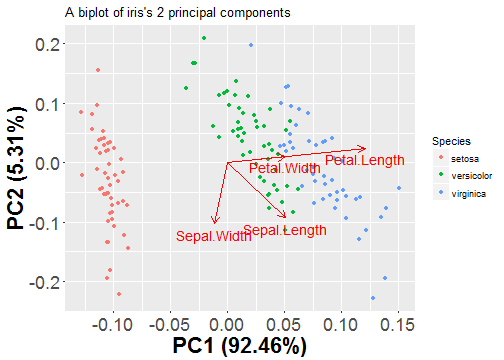
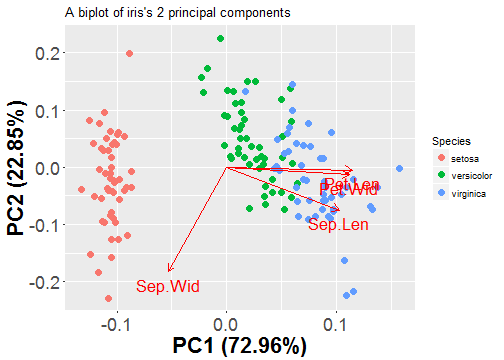
update presentation

diff --git a/docs/index.html b/docs/index.html
@@ -843,7 +843,6 @@ From data wrangling to exploration and modelling
 <li>Logistic regression</li>
 <li>Clustering and classification<br/></li>
 <li>Dimensionality reduction techniques<br/></li>
-<li>Multivariate statistical modelling<br/></li>
 </ul>
 
 </div>
@@ -1105,7 +1104,7 @@ F-statistic: 9.475 on 1 and 28 DF,  p-value: 0.004626
 <section data-transition="default" data-transition-speed="default">
 <h3>Assumptions of linear regression models</h3>
 <div class="slideContent" >
-<p>Analyzing the <em>residuals</em> of the model provides a method to exlopore the validity of the model assumptions. A lot of interesting assumptions are included in the expression </p>
+<p>Analyzing the <em>residuals</em> of the model provides a method to explore the validity of the model assumptions. A lot of interesting assumptions are included in the expression </p>
 
 <p>\[ \boldsymbol{\epsilon} \sim N(0, \sigma^2) \]</p>
 
@@ -1877,8 +1876,8 @@ Proportion of trace:
 
 <ul>
 <li>Principal Component Analysis (PCA) is a statistical procedure which does the same thing</li>
-<li>LDA can also be considered as a dimensionality reduction technique. The visualisation techniques related to PCA and LDA are similar (<strong>biplot</strong>).</li>
-<li>Unlike LDA, <strong>PCA has no criteria or target variable</strong> for the reduction. In machine learning vocabulary, PCA may therefore be called an <strong>unsupervised</strong> method.</li>
+<li>LDA can also be considered as a dimensionality reduction technique. </li>
+<li>PCA best applies to continuous variables. If the data consists of categorical variables, Correspondece Analysis (CA) can be used.</li>
 </ul>
 
 </div>
@@ -1911,9 +1910,9 @@ Proportion of trace:
 <div class="column column2 slideContent" >
 
 
[2 lines of base64/hex data omitted]
 
-<p><small><em>The dimensionality of iris reduced to two principal components (PC). The first PC captures more than 90% of the total variance in the 4 original variables.</em></small></p>
+<p><small><em>The dimensionality of iris reduced to two principal components (PC). The first PC captures more than 70% of the total variance in the 4 original variables.</em></small></p>
 
 </div>
 
@@ -1921,11 +1920,11 @@ Proportion of trace:
 <section data-transition="default" data-transition-speed="default">
 <h3>About PCA</h3>
 <div class="slideContent" >
-<p>Because of it&#39;s unsuperwised nature, PCA operates on numerical data rather blindly.</p>
+<p>Unlike LDA, PCA has no criteria or target variable. PCA may therefore be called an <strong>unsupervised</strong> method.  </p>
 
 <ul>
-<li>PCA is sensitive to the relative scaling of the original features. PCA assumes that features with larger variance are more important than features with smaller variance.</li>
-<li>If higher measurements do not correspond to higher importance/effect in your data, the features should be <strong>standardized</strong> before performing PCA</li>
+<li>PCA is sensitive to the relative scaling of the original features and assumes that features with larger variance are more important than features with smaller variance.<br/></li>
+<li><strong>Standardization</strong> of the features before PCA is often a good idea.</li>
 <li>PCA is powerful at encapsulating correlations between the original features into a smaller number of uncorrelated dimensions</li>
 </ul>
 
@@ -1942,6 +1941,72 @@ Proportion of trace:
 <li>It is also possible to model the dimensionality using underlying latent variables with for example Factor Analysis</li>
 <li>These advanced methods of multivariate analysis are not part of this course</li>
 </ul>
+
+</div>
+
+</section>
+<section data-state="prompt" data-transition="default" data-transition-speed="default">
+<h3>Biplots</h3>
+<div class="column column1 slideContent" >
[1 lines of base64/hex data omitted]
+
+
+</div>
+
+<div class="column column2 slideContent" >
+
+
+<p><br>
+Correlations of iris</p>
+
+<p><font size = 5.5></p>
+
+<pre><code>        Sep.Len Sep.Wid Pet.Len Pet.Wid
+Sep.Len    1.00   -0.12    0.87    0.82
+Sep.Wid   -0.12    1.00   -0.43   -0.37
+Pet.Len    0.87   -0.43    1.00    0.96
+Pet.Wid    0.82   -0.37    0.96    1.00
+</code></pre>
+
+<p></font>
+<br>
+The correlations (and more) can be interpret from the biplot on the left, but how?</p>
+
+</div>
+
+</section>
+<section data-transition="default" data-transition-speed="default">
+<h3>The &#x27;Bi&#x27; in Biplots</h3>
+<div class="slideContent" >
+<p>A biplot is a way of visualizing two representations of the same data. The biplot displays:</p>
+
+<p><strong>(1)</strong> The observations in a lower (2-)dimensional representation</p>
+
+<ul>
+<li>A scatter plot is drawn where the observations are placed on x and y coordinates defined by two principal components (PC&#39;s)</li>
+</ul>
+
+<p><strong>(2)</strong> The original variables and their relationships with both each other and the principal components</p>
+
+<ul>
+<li>Arrows and/or labels are drawn to visualize the connections between the original variables and the PC&#39;s. </li>
+</ul>
+
+</div>
+
+</section>
+<section data-transition="default" data-transition-speed="default">
+<h3>Properties of biplots</h3>
+<div class="slideContent" >
+<p>In a biplot, the following connections hold:</p>
+
+<ul>
+<li>The angle between arrows representing the original variables can be interpret as the correlation between the variables. Small angle = high positive correlation.</li>
+<li>The angle between a variable and a PC axis can be interpret as the correlation between the two. Small angle = high positive correlation.</li>
+<li>The length of the arrows are proportional to the standard deviations of the variables</li>
+</ul>
+
+<p>Biplots can be used to visualize the results of dimensionality reduction methods such as LDA, PCA, Correspondece Analysis (CA) and Multiple CA.</p>
 
 </div>
 

diff --git a/docs/index.md b/docs/index.md
@@ -29,7 +29,6 @@ incremental: false
 - Logistic regression
 - Clustering and classification  
 - Dimensionality reduction techniques  
-- Multivariate statistical modelling  
 
 
 
@@ -226,7 +225,7 @@ A statistical model always includes several assumptions which describe the data 
 
 Assumptions of linear regression models
 ========================================================
-Analyzing the *residuals* of the model provides a method to exlopore the validity of the model assumptions. A lot of interesting assumptions are included in the expression 
+Analyzing the *residuals* of the model provides a method to explore the validity of the model assumptions. A lot of interesting assumptions are included in the expression 
 
 $$\boldsymbol{\epsilon} \sim N(0, \sigma^2)$$
 
@@ -780,9 +779,8 @@ Tools for dimensionality reduction
 On the linear algebra level, Singular Value Decomposition (SVD) is the most important tool for reducing the number of dimensions in multivariate data.
 
 - Principal Component Analysis (PCA) is a statistical procedure which does the same thing
-- LDA can also be considered as a dimensionality reduction technique. The visualisation techniques related to PCA and LDA are similar (**biplot**).
-- Unlike LDA, **PCA has no criteria or target variable** for the reduction. In machine learning vocabulary, PCA may therefore be called an **unsupervised** method.
-
+- LDA can also be considered as a dimensionality reduction technique. 
+- PCA best applies to continuous variables. If the data consists of categorical variables, Correspondece Analysis (CA) can be used.
 
 Principal Component Analysis (PCA)
 ========================================================
@@ -804,14 +802,14 @@ This will give us uncorrelated variables which capture the maximum amount of var
 
 ![plot of chunk unnamed-chunk-5](dimensionality_reduction-figure/unnamed-chunk-5-1.png)
 
-<small>*The dimensionality of iris reduced to two principal components (PC). The first PC captures more than 90% of the total variance in the 4 original variables.*</small>
+<small>*The dimensionality of iris reduced to two principal components (PC). The first PC captures more than 70% of the total variance in the 4 original variables.*</small>
 
 About PCA
 ========================================================
-Because of it's unsuperwised nature, PCA operates on numerical data rather blindly.
+Unlike LDA, PCA has no criteria or target variable. PCA may therefore be called an **unsupervised** method.  
 
-- PCA is sensitive to the relative scaling of the original features. PCA assumes that features with larger variance are more important than features with smaller variance.
-- If higher measurements do not correspond to higher importance/effect in your data, the features should be **standardized** before performing PCA
+- PCA is sensitive to the relative scaling of the original features and assumes that features with larger variance are more important than features with smaller variance.  
+- **Standardization** of the features before PCA is often a good idea.
 - PCA is powerful at encapsulating correlations between the original features into a smaller number of uncorrelated dimensions
 
 About PCA (2)
@@ -822,6 +820,50 @@ PCA is a mathematical tool, not a statistical model, which is why linear algebra
 - It is also possible to model the dimensionality using underlying latent variables with for example Factor Analysis
 - These advanced methods of multivariate analysis are not part of this course
 
+Biplots
+========================================================
+type: prompt
+
+![plot of chunk unnamed-chunk-6](dimensionality_reduction-figure/unnamed-chunk-6-1.png)
+
+***
+<br>
+Correlations of iris
+
+<font size = 5.5>
+
+```
+        Sep.Len Sep.Wid Pet.Len Pet.Wid
+Sep.Len    1.00   -0.12    0.87    0.82
+Sep.Wid   -0.12    1.00   -0.43   -0.37
+Pet.Len    0.87   -0.43    1.00    0.96
+Pet.Wid    0.82   -0.37    0.96    1.00
+```
+</font>
+<br>
+The correlations (and more) can be interpret from the biplot on the left, but how?
+
+
+The 'Bi' in Biplots
+========================================================
+A biplot is a way of visualizing two representations of the same data. The biplot displays:
+
+**(1)** The observations in a lower (2-)dimensional representation
+- A scatter plot is drawn where the observations are placed on x and y coordinates defined by two principal components (PC's)
+
+**(2)** The original variables and their relationships with both each other and the principal components
+- Arrows and/or labels are drawn to visualize the connections between the original variables and the PC's. 
+
+Properties of biplots
+========================================================
+
+In a biplot, the following connections hold:
+
+- The angle between arrows representing the original variables can be interpret as the correlation between the variables. Small angle = high positive correlation.
+- The angle between a variable and a PC axis can be interpret as the correlation between the two. Small angle = high positive correlation.
+- The length of the arrows are proportional to the standard deviations of the variables
+
+Biplots can be used to visualize the results of dimensionality reduction methods such as LDA, PCA, Correspondece Analysis (CA) and Multiple CA.
 
 
 

diff --git a/docs/dimensionality_reduction.md b/docs/dimensionality_reduction.md
@@ -53,9 +53,8 @@ Tools for dimensionality reduction
 On the linear algebra level, Singular Value Decomposition (SVD) is the most important tool for reducing the number of dimensions in multivariate data.
 
 - Principal Component Analysis (PCA) is a statistical procedure which does the same thing
-- LDA can also be considered as a dimensionality reduction technique. The visualisation techniques related to PCA and LDA are similar (**biplot**).
-- Unlike LDA, **PCA has no criteria or target variable** for the reduction. In machine learning vocabulary, PCA may therefore be called an **unsupervised** method.
-
+- LDA can also be considered as a dimensionality reduction technique. 
+- PCA best applies to continuous variables. If the data consists of categorical variables, Correspondece Analysis (CA) can be used.
 
 Principal Component Analysis (PCA)
 ========================================================
@@ -77,14 +76,14 @@ This will give us uncorrelated variables which capture the maximum amount of var
 
 ![plot of chunk unnamed-chunk-5](dimensionality_reduction-figure/unnamed-chunk-5-1.png)
 
-<small>*The dimensionality of iris reduced to two principal components (PC). The first PC captures more than 90% of the total variance in the 4 original variables.*</small>
+<small>*The dimensionality of iris reduced to two principal components (PC). The first PC captures more than 70% of the total variance in the 4 original variables.*</small>
 
 About PCA
 ========================================================
-Because of it's unsuperwised nature, PCA operates on numerical data rather blindly.
+Unlike LDA, PCA has no criteria or target variable. PCA may therefore be called an **unsupervised** method.  
 
-- PCA is sensitive to the relative scaling of the original features. PCA assumes that features with larger variance are more important than features with smaller variance.
-- If higher measurements do not correspond to higher importance/effect in your data, the features should be **standardized** before performing PCA
+- PCA is sensitive to the relative scaling of the original features and assumes that features with larger variance are more important than features with smaller variance.  
+- **Standardization** of the features before PCA is often a good idea.
 - PCA is powerful at encapsulating correlations between the original features into a smaller number of uncorrelated dimensions
 
 About PCA (2)
@@ -95,3 +94,47 @@ PCA is a mathematical tool, not a statistical model, which is why linear algebra
 - It is also possible to model the dimensionality using underlying latent variables with for example Factor Analysis
 - These advanced methods of multivariate analysis are not part of this course
 
+Biplots
+========================================================
+type: prompt
+
+![plot of chunk unnamed-chunk-6](dimensionality_reduction-figure/unnamed-chunk-6-1.png)
+
+***
+<br>
+Correlations of iris
+
+<font size = 5.5>
+
+```
+        Sep.Len Sep.Wid Pet.Len Pet.Wid
+Sep.Len    1.00   -0.12    0.87    0.82
+Sep.Wid   -0.12    1.00   -0.43   -0.37
+Pet.Len    0.87   -0.43    1.00    0.96
+Pet.Wid    0.82   -0.37    0.96    1.00
+```
+</font>
+<br>
+The correlations (and more) can be interpret from the biplot on the left, but how?
+
+
+The 'Bi' in Biplots
+========================================================
+A biplot is a way of visualizing two representations of the same data. The biplot displays:
+
+**(1)** The observations in a lower (2-)dimensional representation
+- A scatter plot is drawn where the observations are placed on x and y coordinates defined by two principal components (PC's)
+
+**(2)** The original variables and their relationships with both each other and the principal components
+- Arrows and/or labels are drawn to visualize the connections between the original variables and the PC's. 
+
+Properties of biplots
+========================================================
+
+In a biplot, the following connections hold:
+
+- The angle between arrows representing the original variables can be interpret as the correlation between the variables. Small angle = high positive correlation.
+- The angle between a variable and a PC axis can be interpret as the correlation between the two. Small angle = high positive correlation.
+- The length of the arrows are proportional to the standard deviations of the variables
+
+Biplots can be used to visualize the results of dimensionality reduction methods such as LDA, PCA, Correspondece Analysis (CA) and Multiple CA.

diff --git a/docs/regression.md b/docs/regression.md
@@ -191,7 +191,7 @@ A statistical model always includes several assumptions which describe the data 
 
 Assumptions of linear regression models
 ========================================================
-Analyzing the *residuals* of the model provides a method to exlopore the validity of the model assumptions. A lot of interesting assumptions are included in the expression 
+Analyzing the *residuals* of the model provides a method to explore the validity of the model assumptions. A lot of interesting assumptions are included in the expression 
 
 $$\boldsymbol{\epsilon} \sim N(0, \sigma^2)$$
 
